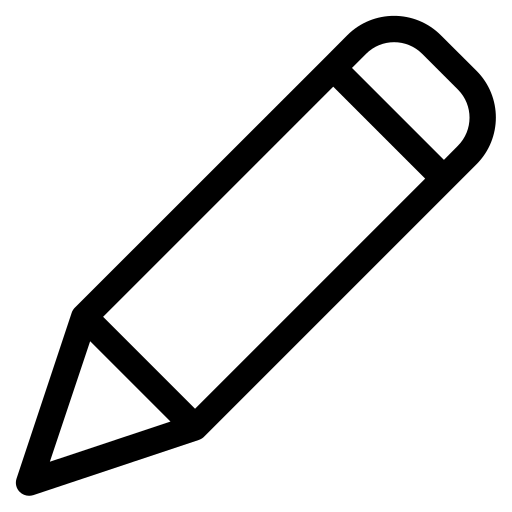
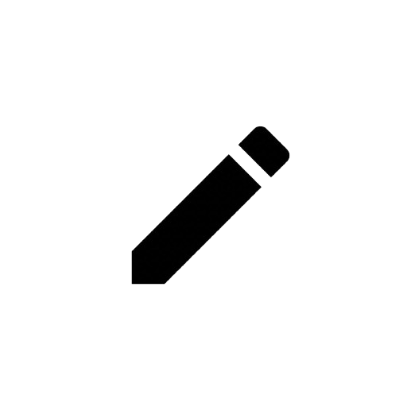
implemented background for all pages

Changed region(s): [[0.0302, 0.0302, 0.9673, 0.9673]]

diff --git a/SmartLibraryManagementSystemWebApp/wwwroot/css/Login.css b/SmartLibraryManagementSystemWebApp/wwwroot/css/Login.css
@@ -1,0 +1,64 @@
+#submitBtn {
+    border: none;
+    border-radius: 25px;
+    background-color: rgba(255, 255, 255, 1);
+    padding: 10px;
+    width: 200px;
+    color: rgba(60, 131, 225, 1);
+}
+#loginContainer {
+    background-color: rgba(203, 203, 203, 0.62);
+    position: absolute;
+    padding: 100px;
+    right: 50%;
+    top: 50%;
+    transform: translate(-10%, -50%);
+    width: 500px;
+    height: 200px;
+    border-radius: 50px;
+}
+
+#isEducatorLabel {
+    font-family: Roboto;
+    font-weight: 400;
+}
+
+html {
+    position: relative;
+}
+
+.loginInput::placeholder {
+    color: rgba(0, 0, 0, 1);
+    opacity: 1;
+    font-weight: 400;
+    font-family: Roboto;
+    font-size: 15px;
+}
+
+.loginInput {
+    height: 50px;
+    width: 100%;
+    box-sizing: border-box;
+    padding-left: 20px;
+}
+
+#isEducatorInput {
+    transform: scale(1.5);
+    border-radius: 0;
+    border: 0;
+    margin-right: 20px;
+    box-decoration: none;
+}
+
+#isEducatorInput:focus {
+    outline: none;
+    border: none;
+}
+
+.inputContainer {
+    margin: 20px;
+}
+
+#profileImg {
+    font-family: Roboto;
+}

diff --git a/SmartLibraryManagementSystemWebApp/wwwroot/css/site.css b/SmartLibraryManagementSystemWebApp/wwwroot/css/site.css
@@ -1,0 +1,61 @@
+#navbar {
+    background-color: #2D2D2D;
+    width: 22vw;
+    display: flex;
+    flex-direction: column;
+    position: sticky;
+    margin-right: auto;
+}
+
+#navbar * {
+    color: white;
+}
+
+#navbar a {
+    text-decoration: none;
+}
+
+body {
+    margin: 0;
+    display: flex;
+    flex-direction: row;
+    height: 100vh;
+    justify-content: flex-end;
+}
+
+.sameBgSpecs {
+    transform: rotate(-5deg);
+    position: fixed;
+    height: 150vh;
+    top: -25vh;
+    z-index: 2;
+}
+
+#orangeBg {
+    width: 25px;
+    background-color: rgba(255, 187, 0, 1);
+    left: 65%;
+}
+
+#blueBg {
+    width: 175px;
+    background-color: rgba(0, 22, 133, 1);
+    left: 55.89%;
+}
+
+#greyBg {
+    width: 175px;
+    background-color: rgba(71, 71, 71, 0.54);
+    transform: rotate(-20deg);
+    position: fixed;
+    height:100vh;
+    top: -25vh;
+    left: 50%;
+    z-index: 1;
+}
+
+#mainContent {
+    position: relative;
+    z-index: 3;
+    left: 100px;
+}

diff --git a/SmartLibraryManagementSystemWebApp/wwwroot/css/Admin.css b/SmartLibraryManagementSystemWebApp/wwwroot/css/Admin.css
@@ -1,0 +1,42 @@
+#usersContainer {
+    background-color: rgba(203, 203, 203, 0.62);
+    position: absolute;
+    right: 50%;
+    top: 50%;
+    transform: translate(50%, -50%);
+    width: 500px;
+    padding: 20px;
+    border-radius: 50px;
+    height: 750px;
+    font-family: Roboto;
+}
+
+html {
+    position: relative;
+}
+
+.userActionBtns {
+    width: 20px;
+}
+
+#usernameId {
+    color: rgba(55, 141, 207, 1);
+    font-size: 27px;
+}
+
+.userRow {
+    background: linear-gradient(to right, rgba(0, 0, 0, 0.65), rgba(102, 102, 102, 0.04));
+    margin: 20px;
+    color: rgba(255, 255, 255, 1);
+    padding: 5px 10px;
+}
+
+.userMiscellaneousInfo {
+    display: grid;
+    grid-template-columns: 100px 100px 100px 100px;
+    margin: 10px;
+}
+
+.userInputs {
+    transform: scale(1.5);
+}
